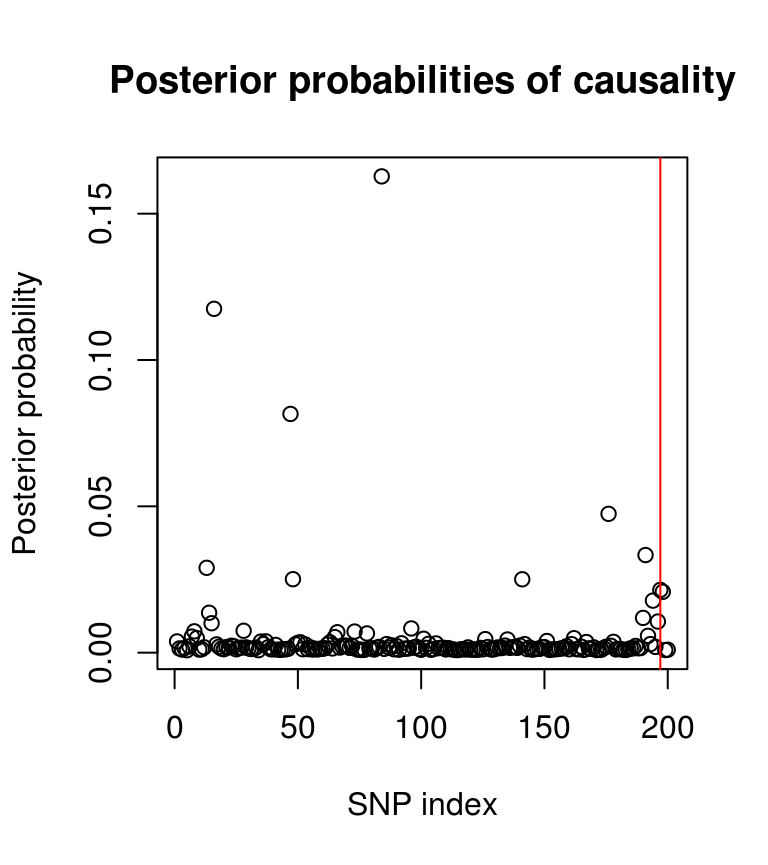
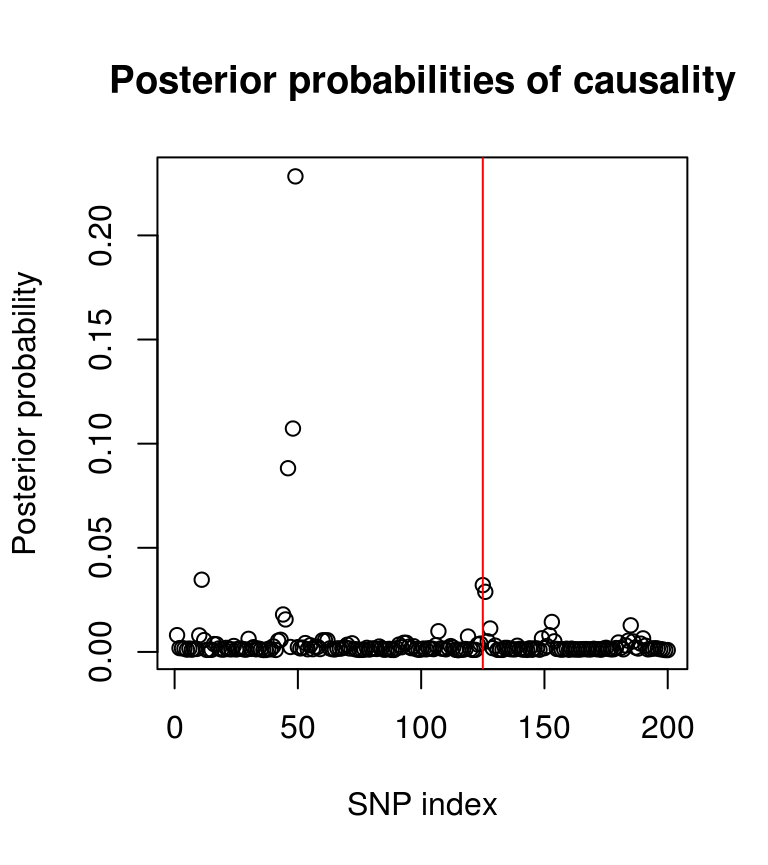
Built site for corrcoverage: 0.0.1.900@95ba698

diff --git a/articles/New-Credible-Set.html b/articles/New-Credible-Set.html
@@ -138,7 +138,7 @@
 <p>We use the <code>est_mu</code> function to obtain an estimate of the true effect at the causal variant.</p>
 <div class="sourceCode" id="cb7"><pre class="sourceCode r"><code class="sourceCode r"><a class="sourceLine" id="cb7-1" data-line-number="1">muhat &lt;-<span class="st"> </span><span class="kw"><a href="../reference/est_mu.html">est_mu</a></span>(z0, MAF, N0, N1)</a>
 <a class="sourceLine" id="cb7-2" data-line-number="2">muhat</a></code></pre></div>
-<pre><code>## [1] 4.528633</code></pre>
+<pre><code>## [1] 5.084361</code></pre>
 <hr>
 </div>
 <div id="corrected-coverage-estimate" class="section level2">
@@ -151,7 +151,7 @@
 <a class="sourceLine" id="cb9-3" data-line-number="3">cs &lt;-<span class="st"> </span><span class="kw"><a href="../reference/credset.html">credset</a></span>(<span class="dt">pp =</span> postprobs, <span class="dt">thr =</span> thr)</a>
 <a class="sourceLine" id="cb9-4" data-line-number="4"><span class="kw"><a href="https://www.rdocumentation.org/packages/base/topics/data.frame">data.frame</a></span>(<span class="dt">claimed.cov =</span> cs<span class="op">$</span>claimed.cov, <span class="dt">corr.cov =</span>  corrcov, <span class="dt">nvar =</span> cs<span class="op">$</span>nvar)</a></code></pre></div>
 <pre><code>##   claimed.cov  corr.cov nvar
-## 1    0.925687 0.9618052    4</code></pre>
+## 1   0.9307395 0.9689075    9</code></pre>
 <p>Using the Bayesian approach for statistical fine-mapping we obtain a 90% credible set consisting of 4 variants. The claimed coverage of this credible set is ~0.925, yet the corrected coverage estimate is ~0.96, suggesting that we can afford to be ‘more confident’ that we have captured the causal variant in our credible set.</p>
 </div>
 <div id="empirical-coverage-estimate" class="section level2">
@@ -171,7 +171,7 @@
 <a class="sourceLine" id="cb11-11" data-line-number="11">true.cov.est &lt;-<span class="st"> </span><span class="kw"><a href="https://www.rdocumentation.org/packages/base/topics/mean">mean</a></span>(cs.cov)</a>
 <a class="sourceLine" id="cb11-12" data-line-number="12"><span class="kw"><a href="https://www.rdocumentation.org/packages/base/topics/data.frame">data.frame</a></span>(<span class="dt">claimed.cov =</span> cs<span class="op">$</span>claimed.cov, <span class="dt">corr.cov =</span>  corrcov, <span class="dt">true.cov =</span> true.cov.est, <span class="dt">nvar =</span> cs<span class="op">$</span>nvar)</a></code></pre></div>
 <pre><code>##   claimed.cov  corr.cov true.cov nvar
-## 1    0.925687 0.9618052   0.9612    4</code></pre>
+## 1   0.9307395 0.9689075   0.9696    9</code></pre>
 <p>We find that our corrected coverage value is very close to the empirical coverage of the credible set.</p>
 <hr>
 </div>
@@ -184,32 +184,31 @@
 <p>The function uses the <a href="https://en.wikipedia.org/wiki/Root-finding_algorithm#Bisection_method">bisection root finding method</a> to converge to the smallest threshold such that the corrected coverage is larger than the desired coverage. The accuracy parameter is optional (default value set to 0.005) and controls how much greater than the desired coverage the user is happy for the corrected coverage value to lie.</p>
 <p>The function reports the threshold values tested and their corresponding corrected coverage value. The maximum number of iterations for the bisecting root finding algorithm is an optional parameter, with default value 20. The functions stops when either the number of iterations reaches the maximum, or the corrected coverage is within some accuracy of the desired coverage.</p>
 <div class="sourceCode" id="cb13"><pre class="sourceCode r"><code class="sourceCode r"><a class="sourceLine" id="cb13-1" data-line-number="1">res &lt;-<span class="st"> </span><span class="kw"><a href="../reference/corrected_cs.html">corrected_cs</a></span>(<span class="dt">z =</span> z0, <span class="dt">f =</span> MAF, N0, N1, <span class="dt">Sigma =</span> LD, <span class="dt">lower =</span> <span class="fl">0.5</span>, <span class="dt">upper =</span> <span class="dv">1</span>, <span class="dt">desired.cov =</span> <span class="fl">0.9</span>)</a></code></pre></div>
-<pre><code>## [1] "thr:  0.75 , cov:  0.914376970354085"
-## [1] "thr:  0.625 , cov:  0.866511121280232"
-## [1] "thr:  0.6875 , cov:  0.889955442232512"
-## [1] "thr:  0.71875 , cov:  0.902254884910318"</code></pre>
+<pre><code>## [1] "thr:  0.75 , cov:  0.920729418494737"
+## [1] "thr:  0.625 , cov:  0.883739847532913"
+## [1] "thr:  0.6875 , cov:  0.901363519845765"</code></pre>
 <div class="sourceCode" id="cb15"><pre class="sourceCode r"><code class="sourceCode r"><a class="sourceLine" id="cb15-1" data-line-number="1">res</a></code></pre></div>
 <pre><code>## $credset
-## [1] "s12" "s10" "s9" 
+## [1] "s54" "s58" "s57" "s67"
 ## 
 ## $req.thr
-## [1] 0.71875
+## [1] 0.6875
 ## 
 ## $corr.cov
-## [1] 0.9022549
+## [1] 0.9013635
 ## 
 ## $size
-## [1] 0.8137297</code></pre>
+## [1] 0.7343958</code></pre>
 <p>In this example we see that a threshold of just ~0.72 is required to obtain a credible set with 90% corrected coverage of the causal variant, containing only 3 variants. In the standard Bayesian approach, a threshold of 90% is chosen which we have seen leads to over-coverage.</p>
 <p>Finally, we can compare this coverage estimate of the corrected credible set to an empirical estimate of the true coverage.</p>
 <div class="sourceCode" id="cb17"><pre class="sourceCode r"><code class="sourceCode r"><a class="sourceLine" id="cb17-1" data-line-number="1">new.cs.sims &lt;-<span class="st"> </span><span class="kw"><a href="https://www.rdocumentation.org/packages/base/topics/apply">apply</a></span>(pps, <span class="dv">1</span>, <span class="cf">function</span>(x) <span class="kw"><a href="../reference/credset.html">credset</a></span>(x, <span class="dt">CV =</span> iCV, <span class="dt">thr =</span> res<span class="op">$</span>req.thr)<span class="op">$</span>cov)</a>
 <a class="sourceLine" id="cb17-2" data-line-number="2">true.cov.est2 &lt;-<span class="st"> </span><span class="kw"><a href="https://www.rdocumentation.org/packages/base/topics/mean">mean</a></span>(new.cs.sims)</a></code></pre></div>
 <p>Original 90% credible set:</p>
 <pre><code>##  claimed.cov corr.cov true.cov nvar
-##        0.926    0.962    0.961    4</code></pre>
+##        0.931    0.969     0.97    9</code></pre>
 <p>New 90% credible set:</p>
 <pre><code>##  claimed.cov corr.cov true.cov nvar
-##        0.814    0.902    0.884    3</code></pre>
+##        0.734    0.901     0.89    4</code></pre>
 <hr>
 <p>This vignette has shown how the <code>corrcoverage</code> R package can be used to improve the resolution of a credible set from Bayesian genetic fine-mapping, without the use of any additional data.</p>
 </div>

diff --git a/articles/my-vignette.html b/articles/my-vignette.html
@@ -87,7 +87,7 @@
 </h1>
                         <h4 class="author">Anna Hutchinson</h4>
             
-            <h4 class="date">2019-07-07</h4>
+            <h4 class="date">2019-07-08</h4>
       
       
       <div class="hidden name"><code>my-vignette.Rmd</code></div>
@@ -178,29 +178,29 @@
 <a class="sourceLine" id="cb11-4" data-line-number="4"></a>
 <a class="sourceLine" id="cb11-5" data-line-number="5">credibleset</a></code></pre></div>
 <pre><code>## $credset
-##   [1]  84  16  47 176 191  13  48 141 197 198 194  14 190 196  15  96  28   8  73  66  78 192   7  65   9 162 101 126 135 151  37   1  35 178 167  51  63  50  92 106 103  86 193 142 161  36  49  17  53  62  41  88  69 140 134  23  70 177 187  90  72  24 159  68   6  98 175  18 165 195  83 127 138 149 150  21  12  38 137 170  55  29 119  22 131  33 144  87  67  97  27  82 109 139  71 136 108 102 124 133 189 111   4 174 132 107  26  61 185 158 188 157  80  30
+##   [1]  49  48  46  11 125 126  44  45 153 185 128 107   1 152  10 119 149 190  30  43  12  62  60  61 184  42 154 127 186 180  93  94  53  72 189 124  16  17 123  91  70 106  55 183 130 191 139  24 151 112  97  40  83  57  95  47  58  50  32  69  92 187  52 113 181 175  78  21 111 134 135 179   2 150 129  96   3 195  84  68  90 103 144 146  66  63  51 104 108  18 194  71 147  81  80 188   6 101  27   4  34 174 196 161  67   8 159  26 170 140 109  38  31  87 176
 ## 
 ## $claimed.cov
-## [1] 0.9008649
+## [1] 0.9006078
 ## 
 ## $nvar
-## [1] 114</code></pre>
+## [1] 115</code></pre>
 <div class="sourceCode" id="cb13"><pre class="sourceCode r"><code class="sourceCode r"><a class="sourceLine" id="cb13-1" data-line-number="1">thresh &lt;-<span class="st"> </span><span class="fl">0.9</span></a>
 <a class="sourceLine" id="cb13-2" data-line-number="2"></a>
 <a class="sourceLine" id="cb13-3" data-line-number="3">credibleset &lt;-<span class="st"> </span><span class="kw"><a href="../reference/credset.html">credset</a></span>(<span class="dt">pp =</span> postprobs, <span class="dt">CV =</span> iCV, <span class="dt">thr =</span> thresh)</a>
 <a class="sourceLine" id="cb13-4" data-line-number="4"></a>
 <a class="sourceLine" id="cb13-5" data-line-number="5">credibleset</a></code></pre></div>
 <pre><code>## $credset
-##   [1]  84  16  47 176 191  13  48 141 197 198 194  14 190 196  15  96  28   8  73  66  78 192   7  65   9 162 101 126 135 151  37   1  35 178 167  51  63  50  92 106 103  86 193 142 161  36  49  17  53  62  41  88  69 140 134  23  70 177 187  90  72  24 159  68   6  98 175  18 165 195  83 127 138 149 150  21  12  38 137 170  55  29 119  22 131  33 144  87  67  97  27  82 109 139  71 136 108 102 124 133 189 111   4 174 132 107  26  61 185 158 188 157  80  30
+##   [1]  49  48  46  11 125 126  44  45 153 185 128 107   1 152  10 119 149 190  30  43  12  62  60  61 184  42 154 127 186 180  93  94  53  72 189 124  16  17 123  91  70 106  55 183 130 191 139  24 151 112  97  40  83  57  95  47  58  50  32  69  92 187  52 113 181 175  78  21 111 134 135 179   2 150 129  96   3 195  84  68  90 103 144 146  66  63  51 104 108  18 194  71 147  81  80 188   6 101  27   4  34 174 196 161  67   8 159  26 170 140 109  38  31  87 176
 ## 
 ## $claimed.cov
-## [1] 0.9008649
+## [1] 0.9006078
 ## 
 ## $covered
 ## [1] 1
 ## 
 ## $nvar
-## [1] 114</code></pre>
+## [1] 115</code></pre>
 <p>Here, the 90% credible set contains 114 (out of 200) variants, has a claimed coverage of 0.9008 and contains the true causal variant. In the literature, authors would typically report that they have found a 90% credible set containing 114 variants which they are at least 90% confident contains the true causal variant.</p>
 <p>Note that if the variants are named in the <code>pp</code> vector, then the <code>$credset</code> output would contain variant names rather than their indices.</p>
 <hr>
@@ -224,7 +224,7 @@
 <p>Side note: If the estimated effect size coefficients (<code>bhat</code>) and their standard errors (<code><a href="https://www.rdocumentation.org/packages/base/topics/MathFun">sqrt(V)</a></code>) are known instead of <span class="math inline">\(Z\)</span>-scores and minor allele frequencies, then the <code>corrcov_bhat</code> function can be used analogously.</p>
 <div class="sourceCode" id="cb15"><pre class="sourceCode r"><code class="sourceCode r"><a class="sourceLine" id="cb15-1" data-line-number="1">corrected_cov_estimate &lt;-<span class="st"> </span><span class="kw"><a href="../reference/corrcov.html">corrcov</a></span>(<span class="dt">z =</span> z0, <span class="dt">f =</span> MAF, N0, N1, <span class="dt">Sigma =</span> LD, <span class="dt">thr =</span> thresh)</a></code></pre></div>
 <pre><code>##  Corrected.Coverage Claimed.Coverage Threshold
-##           0.9736372        0.9008649       0.9</code></pre>
+##           0.9773435        0.9006078       0.9</code></pre>
 <p>In this example, the 90% credible set may in actual fact have nearer to 97% coverage of the causal variant in the credible set.</p>
 <hr>
 </div>
@@ -245,10 +245,10 @@
 <a class="sourceLine" id="cb17-11" data-line-number="11">cs &lt;-<span class="st"> </span><span class="kw"><a href="https://www.rdocumentation.org/packages/base/topics/apply">apply</a></span>(pps, <span class="dv">1</span>, <span class="cf">function</span>(x) <span class="kw"><a href="../reference/credset.html">credset</a></span>(x, <span class="dt">CV =</span> iCV, <span class="dt">thr =</span> thresh)<span class="op">$</span>cov)</a>
 <a class="sourceLine" id="cb17-12" data-line-number="12">true.cov.est &lt;-<span class="st"> </span><span class="kw"><a href="https://www.rdocumentation.org/packages/base/topics/mean">mean</a></span>(cs)</a>
 <a class="sourceLine" id="cb17-13" data-line-number="13">true.cov.est</a></code></pre></div>
-<pre><code>## [1] 0.9764</code></pre>
+<pre><code>## [1] 0.969</code></pre>
 <p>The estimated empirical coverage is found to be approximately 97.6%, so our estimate of ~97% is accurate - far more so than the standard ‘claimed coverage’ of ~90%.</p>
 <pre><code>##  Empirical.Coverage Corrected.Coverage Claimed.Coverage Threshold
-##              0.9764          0.9736372        0.9008649       0.9</code></pre>
+##               0.969          0.9773435        0.9006078       0.9</code></pre>
 <hr>
 </div>
 <div id="so-what" class="section level2">
